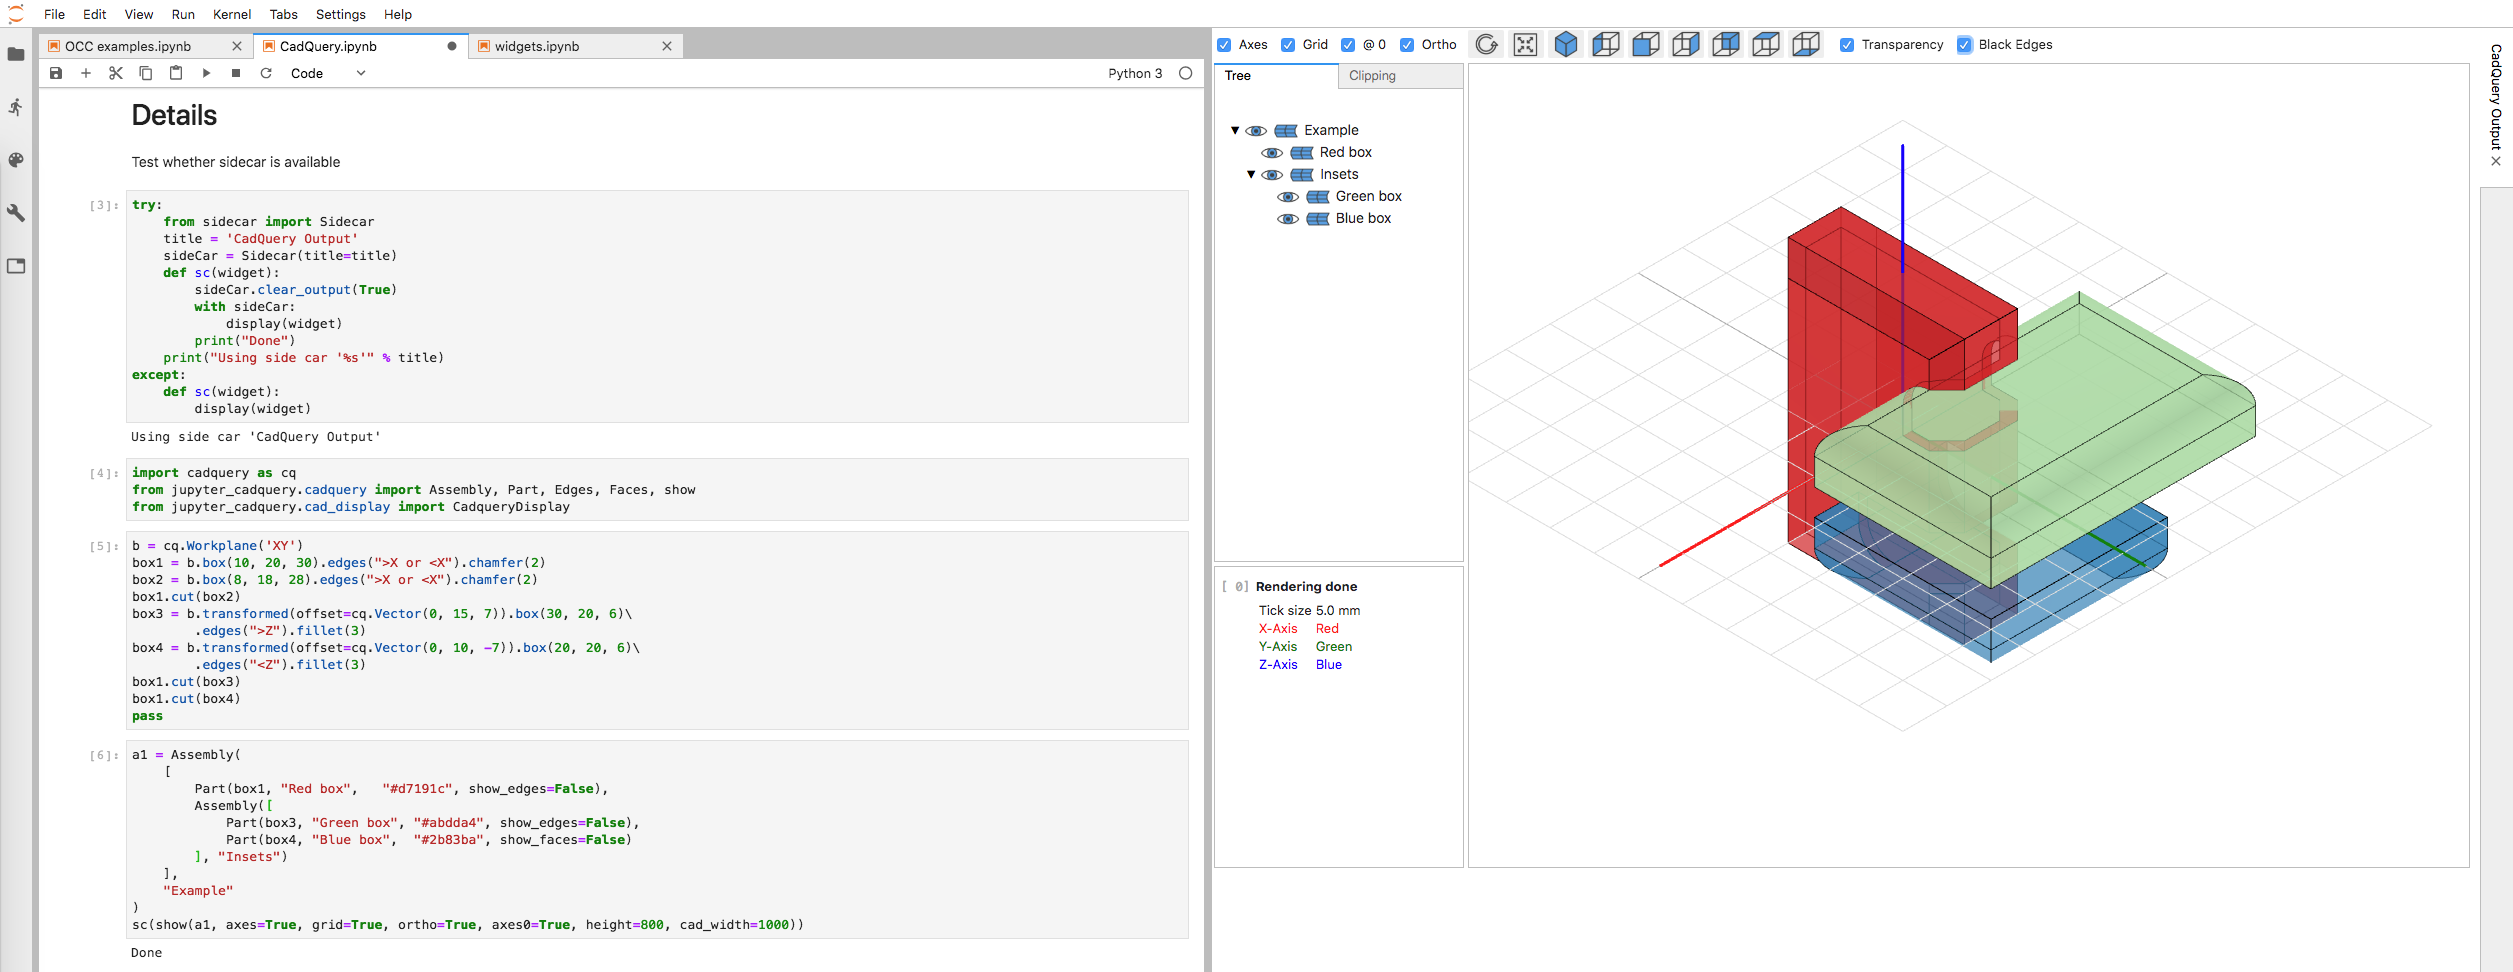
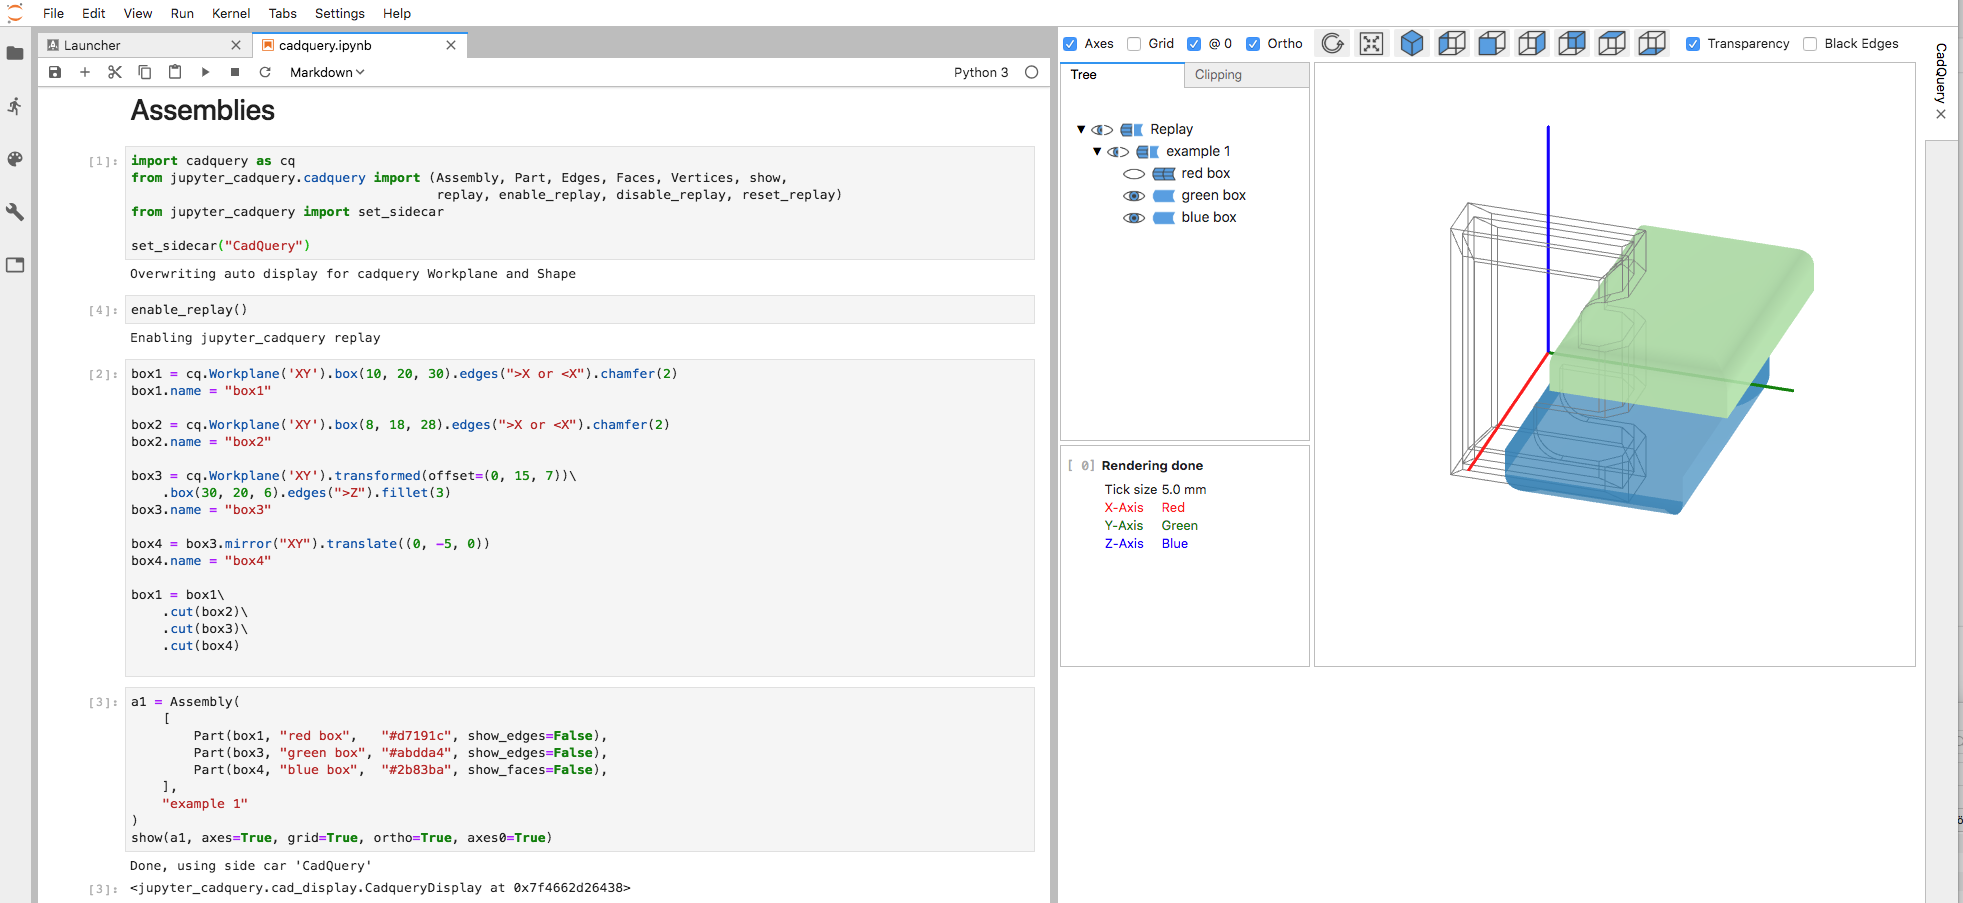
for version 0.9.1

diff --git a/README.md b/README.md
@@ -2,50 +2,49 @@
 
 An extension to render cadquery objects in JupyterLab via *[pythreejs](https://pythreejs.readthedocs.io/en/stable/)*.
 
-![intro](screenshots/0_intro.png)
-
-
 **Note:** The extension relies on *PythonOCC* and will not run with the *FreeCAD* version of *CadQuery 1* or *CadQuery 2*.
 
 ## Overview
 
 ### Key features:
 
-- Support for *CadQuery* and *PythonOCC* shapes
-- Switch between Orthographic and Perspective view
+- Support for *CadQuery*, *CQParts* and *PythonOCC*
 - Auto display of *CadQuery* shapes
-- Double click on shapes shows bounding box info in output widget
-- Visual debugging by displaying selected *CadQuery* faces and edges
-- Transparency mode
-- Toggle visibilty of shapes and edges
-- Clipping with max 3 clipping planes (of free orientation)
-- Supports (Jupyterlab Sidecar)[https://github.com/jupyter-widgets/jupyterlab-sidecar]
+- Viewer features
+    - Jupyterlab sidecar support
+    - Toggle visibilty of shapes and edges
+    - Orthographic and perspective view
+    - Clipping with max 3 clipping planes (of free orientation)
+    - Transparency mode
+    - Double click on shapes shows bounding box info in output widget
+- Visual debugging by 
+    - displaying selected *CadQuery* faces and edges
+    - replaying steps of the rendered object
 
+![Overview](screenshots/0_intro.png)
 
 ### Samples
 
-#### Jupyterlab Sidecar
 
-- [Sidecar Support](screenshots/sidecar.png)
 
-    ![Sidecar Support](screenshots/s_sidecar.png)
-
-#### CadQuery
+#### CadQuery using Sidecar
 
 ```python
 import cadquery as cq
-from jupyter_cadquery.cadquery import Assembly, Part, Edges, Faces, show
+from jupyter_cadquery.cadquery import (Assembly, Part, Edges, Faces, Vertices, show)
 
-b = cq.Workplane('XY')
-box1 = b.box(10, 20, 30).edges(">X or <X").chamfer(2)
-box2 = b.box(8, 18, 28).edges(">X or <X").chamfer(2)
-box1.cut(box2)
-box3 = b.transformed(offset=cq.Vector(0, 15, 7)).box(30, 20, 6)\
-        .edges(">Z").fillet(3)
-box4 = b.transformed(offset=cq.Vector(0, 10, -7)).box(20, 20, 6)\
-        .edges("<Z").fillet(3)
-box1.cut(box3)
-box1.cut(box4)
+box1 = cq.Workplane('XY').box(10, 20, 30).edges(">X or <X").chamfer(2)
+
+box2 = cq.Workplane('XY').box(8, 18, 28).edges(">X or <X").chamfer(2)
+
+box3 = cq.Workplane('XY').transformed(offset=(0, 15, 7)).box(30, 20, 6).edges(">Z").fillet(3)
+
+box4 = box3.mirror("XY").translate((0, -5, 0))
+
+box1 = box1\
+    .cut(box2)\
+    .cut(box3)\
+    .cut(box4)
 
 a1 = Assembly(
     [
@@ -59,68 +58,69 @@ a1 = Assembly(
 show(a1, axes=True, grid=True, ortho=True, axes0=True)
 ```
 
-- [Orthographic view](screenshots/1_ortho.png)
+![Overview](screenshots/sidecar.png) 
 
-    ![ortho](screenshots/s_1_ortho.png)
+#### Viewing Features
 
-- [Perspective view](screenshots/2_perspective.png)
+![Overview](screenshots/overview.gif) 
 
-    ![perspective](screenshots/s_2_perspective.png)
+#### Clipping
 
-- [Hiding edges and shapes](screenshots/3_ortho_with_hidden_features.png)
+![Overview](screenshots/clipping.gif) 
 
-    ![ortho_with_hidden_features](screenshots/s_3_ortho_with_hidden_features.png)
+#### Faces Edges Vertices
 
-- [Transparency](screenshots/4_transparency.png)
+![Overview](screenshots/faces-edges-vertices.gif) 
 
-    ![transparency](screenshots/s_4_transparency.png)
+#### Replay
 
-- [Clipping with up to 3 clipping planes](screenshots/5_clipping.png)
+![Overview](screenshots/replay.gif) 
 
-    ![clipping](screenshots/s_5_clipping.png)
+#### OCC support
 
-#### PythonOCC
+![Overview](screenshots/occ.gif) 
 
-See [core_classic_occ_bottle.py](https://github.com/tpaviot/pythonocc-demos/blob/master/examples/core_classic_occ_bottle.py), however omit lines in the `main`part
+#### CQParts support
 
-```python
-from jupyter_cadquery.occ import Part, Assembly, show
+![Overview](screenshots/cqparts.gif) 
 
-# ...
-
-# Build the resulting compound
-bottle = TopoDS_Compound()
-aBuilder = BRep_Builder()
-aBuilder.MakeCompound(bottle)
-aBuilder.Add(bottle, myBody.Shape())
-aBuilder.Add(bottle, myThreading)
-print("bottle finished")
-
-# No main lines
-
-Part(bottle, color="#abdda4")
-```
-
-[Classic OCC bottle](screenshots/occ_bottle.png)
-
-![Classic OCC bottle](screenshots/s_occ_bottle.png)
-
-
-### Visual debugging in *CadQuery
-
-- By showing faces [without](screenshots/6_faces.png) or [with](screenshots/7_faces_and_part.png) their shape `box1.faces("not(|Z or |X or |Y)")`
-
-    ![faces](screenshots/s_6_faces.png)
-    ![faces_and_part](screenshots/s_7_faces_and_part.png)
-
-- By showing edges [without](screenshots/8_edges.png) or [with](screenshots/9_edges_and_part.png) their shape `box1.edges("not(|X or |Y or |Z)")`
-
-    ![edges](screenshots/s_8_edges.png)
-    ![edges_and_part](screenshots/s_9_edges_and_part.png)
 
 ## Usage
 
-Own classes for assemblies
+### Show cadquery objects
+
+- **show(args)**
+    - *cad_objs*: Comma separated list of cadquery objects
+    - *height* (`default=600`): Height of the CAD view
+    - *tree_width* (`default=250`): Width of the object tree view
+    - *cad_width* (`default=800`): Width of the CAD view
+    - *quality* (default=`0.5`): Rendering quality
+    - *axes* (`default=False`): Show X, Y and Z axis
+    - *axes0* (`default=True`): Show axes at (0,0,0) or mass center
+    - *grid* (`default=False`): Show grid
+    - *ortho* (`default=True`): View in orthographic or perspective mode
+    - *transparent* (`default=False`): View cadquery objects in transparent mode
+    - *mac_scrollbar* (`default=True`): On macos patch scrollbar behaviour
+    - *sidecar* (`default=None`): Use sidecar (False for none). Can be set globally with `set_sidecar`
+    - *show_parents* (`default=True`): Show additinoally parent of the current cadquery object
+
+### Show OCC objects
+
+- **show(args)**
+    - *cad_obj*: Single OCC object
+    - *height* (`default=600`): Height of the CAD view
+    - *tree_width* (`default=250`): Width of the object tree view
+    - *cad_width* (`default=800`): Width of the CAD view
+    - *quality* (default=`0.5`): Rendering quality
+    - *axes* (`default=False`): Show X, Y and Z axis
+    - *axes0* (`default=True`): Show axes at (0,0,0) or mass center
+    - *grid* (`default=False`): Show grid
+    - *ortho* (`default=True`): View in orthographic or perspective mode
+    - *transparent* (`default=False`): View cadquery objects in transparent mode
+    - *mac_scrollbar* (`default=True`): On macos patch scrollbar behaviour
+    - *sidecar* (`default=None`): Use sidecar (False for none). Can be set globally with `set_sidecar`
+
+### Assembly classes
 
 - **Part**: A CadQuery shape plus some attributes for it:
     - *shape*: Cadquery shape
@@ -130,14 +130,19 @@ Own classes for assemblies
     - *show_edges*: show the edges of this particular part
 
 - **Faces**: Cadquery faces plus some attributes
-    - *faces*: List of cadquery faces (`shape(faces(selctor))`)
+    - *faces*: List of cadquery faces (`shape.faces(selector))`)
     - *name*: Part name in the view
     - *color*: Part color in the view
     - *show_faces*: show the faces for these particular faces
     - *show_edges*: show the edges for these particular faces
 
 - **Edges**:
-    - *edges*: List of cadquery edges (`shape(edges(selctor))`)
+    - *edges*: List of cadquery edges (`shape.edges(selector))`)
+    - *name*: Part name in the view
+    - *color*: Part color in the view
+
+- **Vertices**:
+    - *vertices*: List of cadquery vertices (`shape.vertices(selector))`)
     - *name*: Part name in the view
     - *color*: Part color in the view
 
@@ -145,12 +150,13 @@ Own classes for assemblies
     - *name*: Assembly name in the view
     - *objects*: all parts and assemblies included in the assembly as a list
 
+
 ## Installation
 
 - Create a conda environment with Jupyterlab:
 
     ```bash
-    conda create -n pycq python=3.6 numpy jupyterlab
+    conda create -n pycq python=3.6 numpy jupyterlab dataclasses
     conda activate pycq
     ```
 
